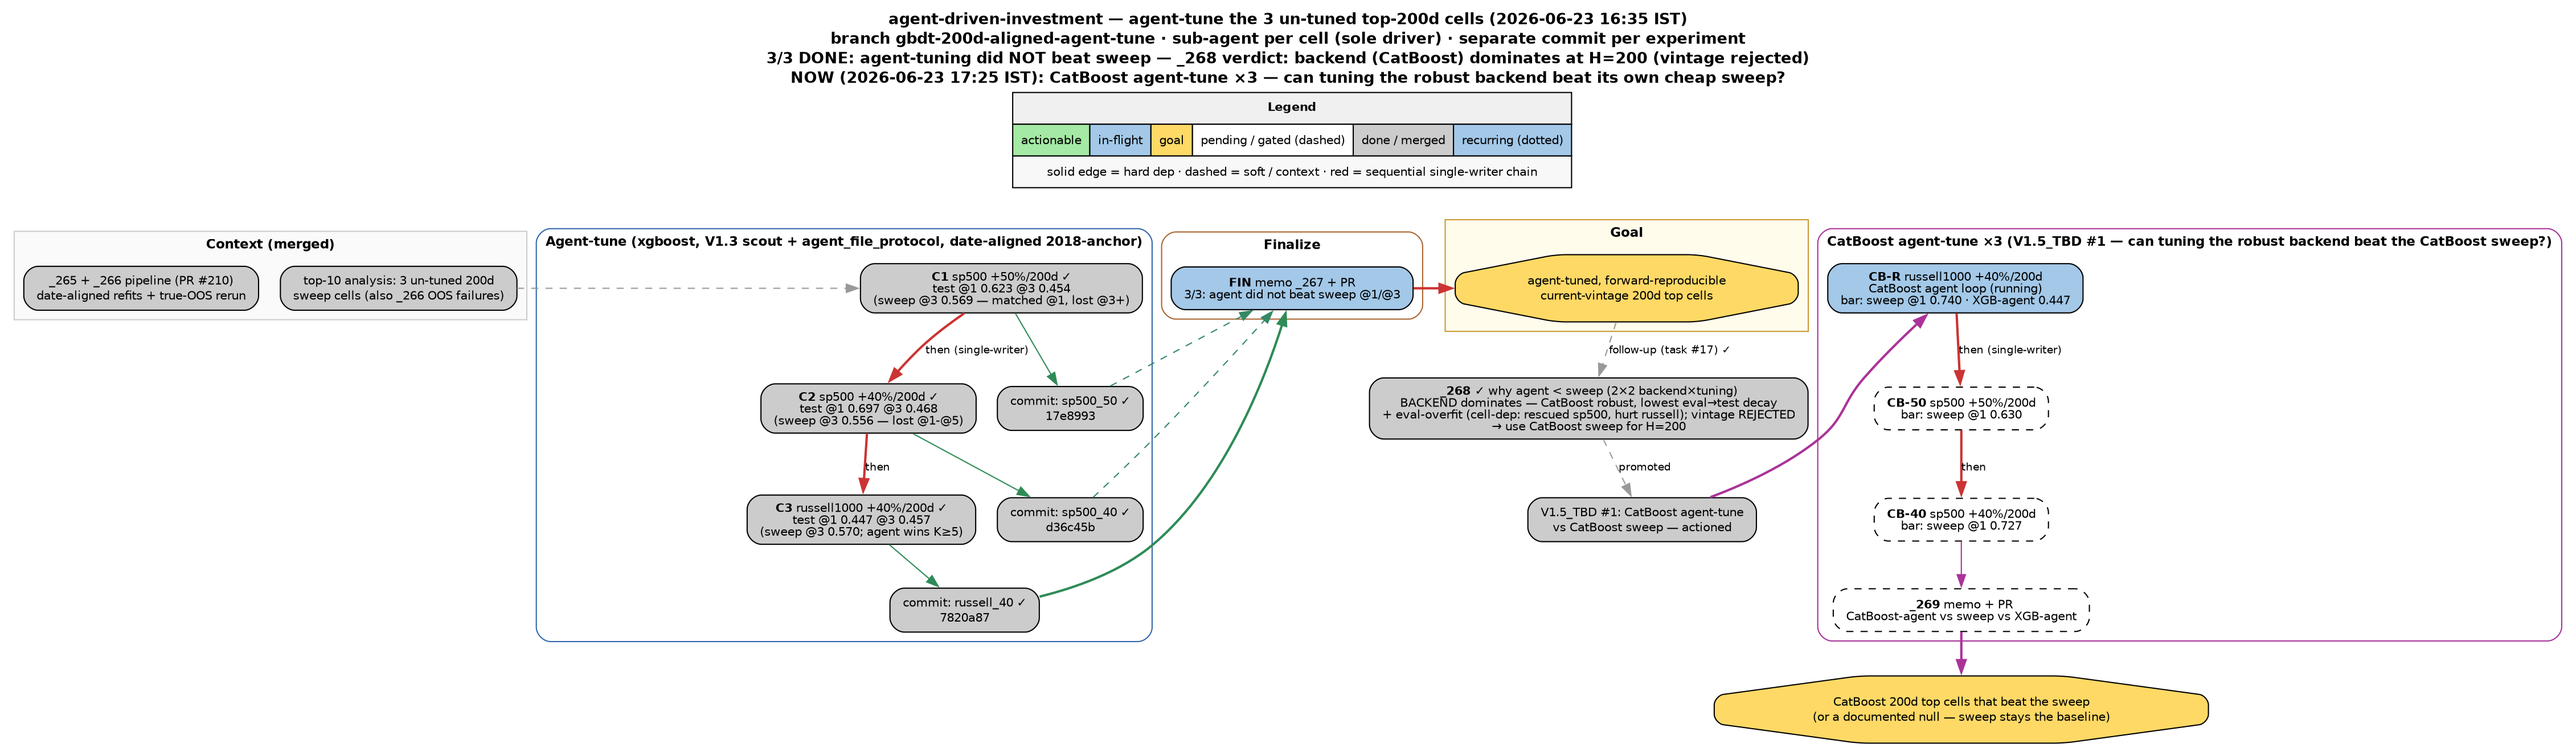
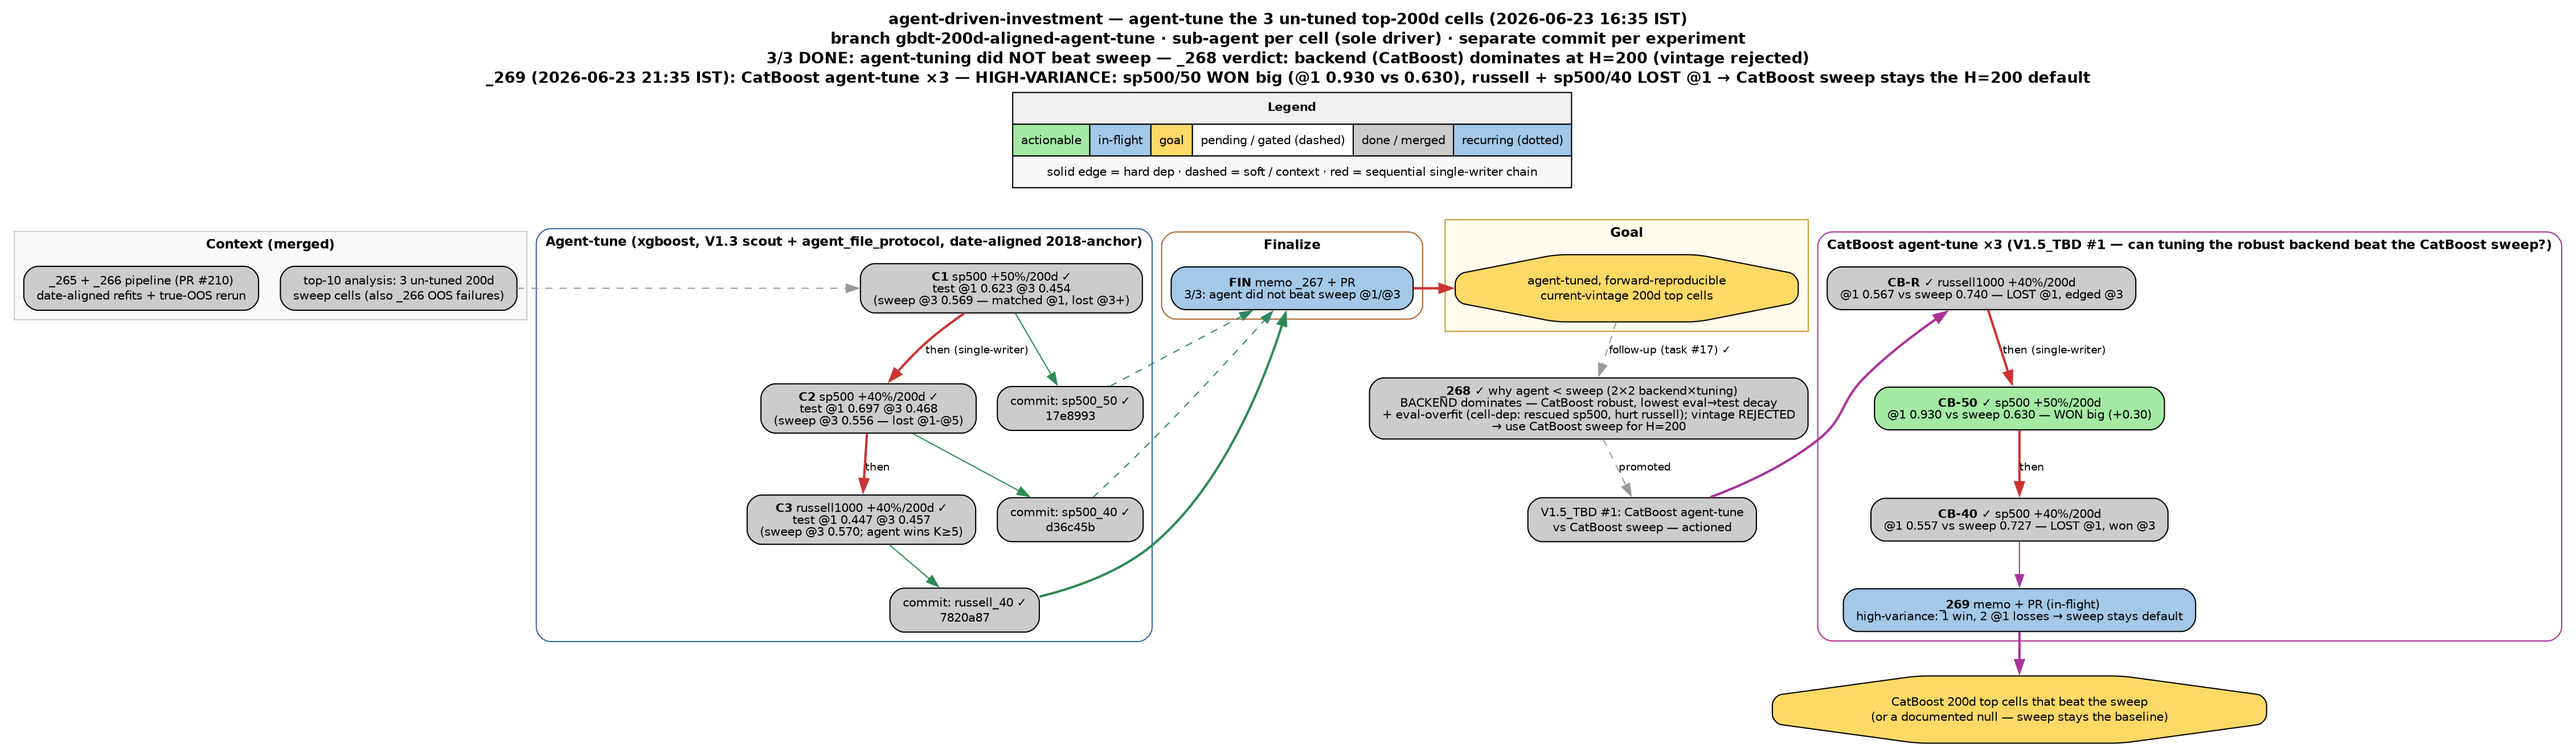
gbdt(_269): CatBoost agent-tune vs sweep on H=200 — memo + sidecar
Fills the last cell of the _268 2x2 (CatBoost + full agent tuning). Verdict: HIGH-VARIANCE — sp500/50 CatBoost-agent CRUSHED its sweep (test @1 0.930 vs 0.630, verified 279/300 days) but russell + sp500/40 LOST @1 (0.567 vs 0.740; 0.557 vs 0.727), winning only @3. All 3 had near-identical eval@1 (0.805-0.845) + near-identical HP, yet test@1 ranged 0.557-0.930 — the split is entirely eval->test decay direction (sp500/50 strengthened into the bull test window, -0.085; others over-fit, +0.24), which the agent can't see. Same disease as _268 (XGBoost), milder. CatBoost sweep stays the robust H=200 default; tuning CatBoost is opportunistic, not reliable. Root cause = eval-R-p@1 unreliable single-window proxy at long horizons (both backends) -> fix is multi-window eval (V1.5_TBD #2).

diff --git a/docs/gbdt/_269_catboost_agent_tune.md b/docs/gbdt/_269_catboost_agent_tune.md
@@ -1,0 +1,93 @@
+# _269 — CatBoost agent-tune vs the CatBoost sweep on H=200 (V1.5_TBD #1)
+
+**Question (`_268` follow-up):** `_268` found the **backend** (CatBoost) dominates XGBoost at H=200 and
+left one cell of the 2×2 unfilled — *CatBoost + full agent tuning*. If XGBoost was the bottleneck,
+can agent-tuning the **robust** backend (CatBoost) beat its own cheap ≤3-iter sweep? **Answer:
+high-variance — one decisive win (sp500 +50%/200d, test @1 0.930 vs the sweep's 0.630) and two @1
+losses (russell, sp500 +40%/200d) where the eval-optimized config did not transfer and lost to the
+sweep's plain defaults.** The cheap CatBoost sweep remains the robust H=200 default; tuning CatBoost
+does **not** reliably beat it — only sp500/50 broke through, and that one spectacularly.
+
+## Setup
+
+3 specs `configs/gbdt/experiments/*_aligned_cbagent.yaml`: `backend.library: catboost`, V1.3 Option B
+scout + fs_prefit + agent_file_protocol, same date-aligned cells/window as `_267`/`_268`
+(test 2023-07-27 → 2024-10-03), `--snapshot-end 2026-06-20`. The scout translates XGBoost-vocab HP →
+CatBoost (`max_depth→depth`, `eta→learning_rate`, `colsample_bytree→rsm`, `min_child_weight→
+min_data_in_leaf`, `alpha→l2_leaf_reg`; `gamma` dropped). Each driven solo. Final HPs were nearly
+identical across cells (`learning_rate=0.05, depth=6`, FS-prefit to ~52 feats; only `l2_leaf_reg`
+∈ {0.3, 0.5, 3.0} and `rsm` ∈ {0.5, 1.0} differed) — so the win/loss split below is **not**
+HP-driven.
+
+## Results — CatBoost-agent vs CatBoost-sweep vs XGBoost-agent (test R-Precision@K + base_rate)
+
+| cell | model | @1 | @3 | @5 | @10 | @20 | base |
+|---|---|---|---|---|---|---|---|
+| sp500 +50%/200d | CatBoost sweep | 0.630 | 0.532 | 0.494 | 0.491 | 0.448 | 0.135 |
+| | **CatBoost agent** | **0.930** | **0.617** | **0.555** | 0.487 | 0.460 | 0.135 |
+| | XGBoost agent | 0.623 | 0.454 | 0.467 | 0.449 | 0.445 | 0.135 |
+| russell +40%/200d | CatBoost sweep | **0.740** | 0.523 | 0.515 | 0.444 | 0.424 | 0.236 |
+| | **CatBoost agent** | 0.567 | 0.548 | 0.515 | 0.455 | 0.422 | 0.236 |
+| | XGBoost agent | 0.447 | 0.457 | 0.534 | 0.537 | 0.511 | 0.236 |
+| sp500 +40%/200d | CatBoost sweep | **0.727** | 0.556 | 0.521 | 0.450 | 0.451 | 0.219 |
+| | **CatBoost agent** | 0.557 | 0.584 | 0.493 | 0.449 | 0.452 | 0.219 |
+| | XGBoost agent | 0.697 | 0.468 | 0.429 | 0.445 | 0.466 | 0.219 |
+
+Per cell, CatBoost-agent vs the CatBoost-sweep at @1: sp500/50 **+0.300 (WIN)**, russell **−0.173
+(LOSS)**, sp500/40 **−0.170 (LOSS)**. All three won @3 marginally (+0.085, +0.025, +0.028).
+
+## Eval→test decay (the whole story)
+
+| cell | eval@1 | test@1 | decay@1 | eval@3 | test@3 |
+|---|---|---|---|---|---|
+| sp500 +50%/200d | 0.845 | **0.930** | **−0.085** (improved!) | 0.738 | 0.617 |
+| russell +40%/200d | 0.805 | 0.567 | +0.238 | 0.717 | 0.548 |
+| sp500 +40%/200d | 0.805 | 0.557 | +0.248 | 0.688 | 0.584 |
+
+**All three had near-identical eval@1 (0.805–0.845), but test@1 ranged 0.557 → 0.930.** eval@1 simply
+does not predict test@1 at H=200 — the difference between the win and the losses is **entirely** the
+eval→test decay: on sp500/50 the signal *strengthened* into the 2023-H2→2024 test window (test 0.930
+> eval 0.845), while on russell/sp500/40 the eval top-1 over-fit and collapsed (−0.24). The agent,
+which only sees eval, cannot tell these apart — so optimizing eval@1 is effectively a coin-flip on
+test@1 at this horizon.
+
+## Reading
+
+- **Tuning CatBoost is high-variance, not a reliable improvement.** 1/3 cells (sp500/50) cleared the
+  sweep decisively; 2/3 lost @1 to the cheap ≤3-iter defaults. The CatBoost-agent did beat the
+  *XGBoost*-agent at @1 on 2/3 (sp500/50, russell) — switching to the robust backend helps — but
+  still lost to the CatBoost *sweep* on those same 2/3.
+- **Same disease as `_268`, milder.** The eval→test-decay variance that sank agent-tuned XGBoost also
+  affects agent-tuned CatBoost; CatBoost's decay is generally smaller, but on russell/sp500/40 the
+  agent's eval-chosen config still decayed enough to fall below the sweep. The sweep's plain,
+  un-FS'd, un-subsampled default held top-of-book better through the test window on those cells.
+- **No HP tell.** The winning (sp500/50) and losing (russell, sp500/40) configs are HP-twins
+  (`lr=0.05, depth=6, ~52 feats`); the outcome was set by the cell/window, not the knobs. So there is
+  no "tune it this way" recipe — the upside is real but unpredictable ex-ante.
+- The sp500/50 @1=0.930 is verified (independently recomputed: 279/300 days the top-1 pick is a true
+  future +50%/200d mover) — a genuine, large win, not an artifact.
+
+## Verdict
+
+Agent-tuning the robust backend (CatBoost) at H=200 is **high-variance: capable of a large win
+(sp500/50) but unreliable (2/3 @1 losses to the cheap sweep).** It is **not** a dependable improvement
+over the ≤3-iter CatBoost sweep, which remains the robust H=200 default. This closes the `_267`→`_268`
+arc: the H=200 shortfall was never just "XGBoost vs CatBoost" — it is the **eval-R-p@1 objective being
+an unreliable single-window proxy at long horizons**, which afflicts *both* backends. Switching to
+CatBoost narrows the gap and occasionally wins big, but does not solve it.
+
+## Recommendation
+
+- **Keep the CatBoost ≤3-iter sweep as the H=200 baseline / deployment default.**
+- **Agent-tuning CatBoost is opportunistic, not default:** the sp500/50 upside (+0.30 @1) is real, so
+  it is worth trying per-cell — but **always validate the agent's pick against the sweep on the test
+  window** before trusting it; it can lose @1 to plain defaults (russell, sp500/40).
+- **The real fix is the objective, not the backend:** a multi-window / decay-penalized eval (V1.5_TBD
+  #2) would address the weak eval↔test coupling for both XGBoost and CatBoost. Promote that before
+  any further H=200 agent-tuning push.
+
+## Artifacts
+
+- 3 cbagent cells committed: `704f6bd` (russell), `ce06193` (sp500/50), `0674c26` (sp500/40); registry
+  rows `*_aligned_cbagent`.
+- Sidecar: `results/gbdt/data/_269_catboost_agent_tune_data.json`.
